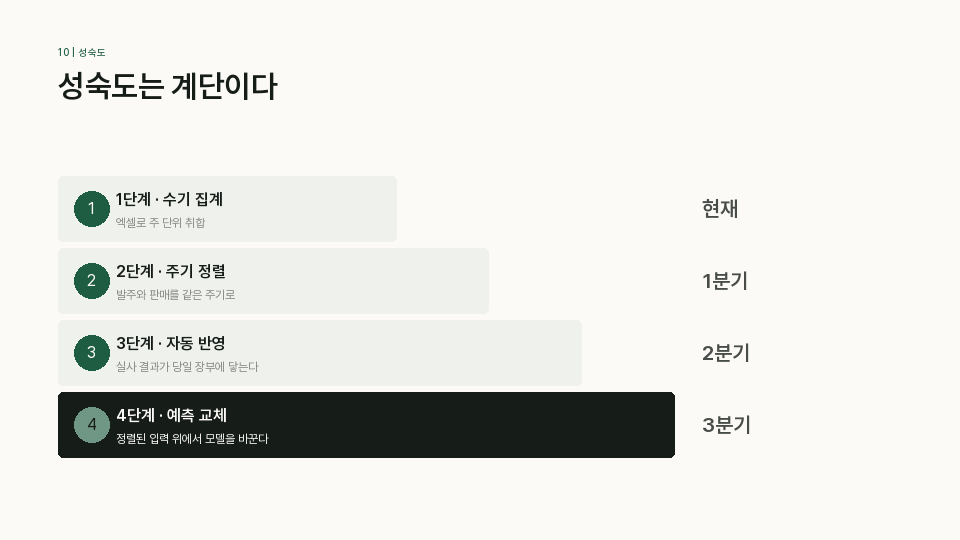
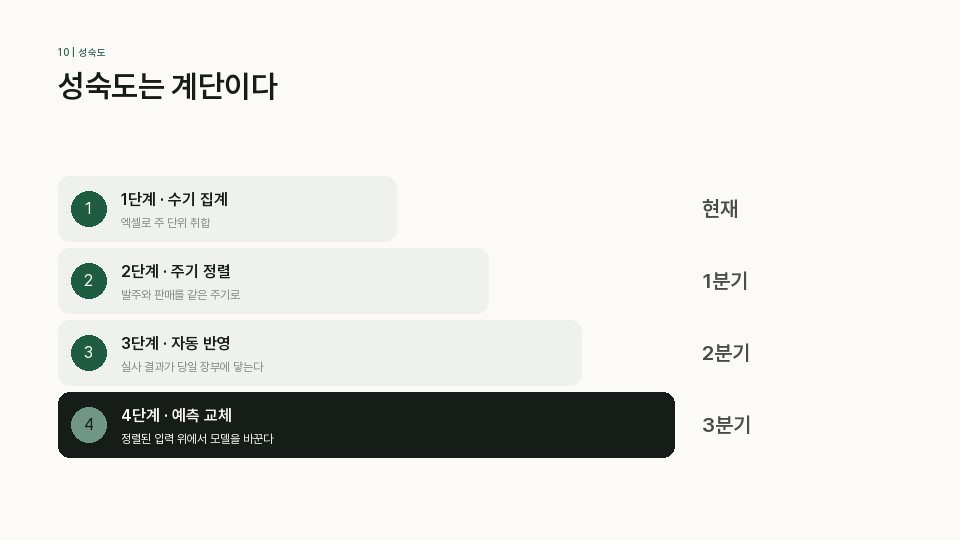
Unify corner radius to the measured single value; adopt weight/divider rules
Measured all five reference decks: the newest ones set an absolute 11.5pt corner radius on
464 shapes regardless of size (adj recomputed per shape), while the spec carried 5.0 from a
partial earlier measurement. apple_design's 'don't mix radii grammars' points the same way.

- spec: panel_radius 11.5 + chip_radius 11.5 (one scale); editorial stays square
- build/deckkit/svgpreview: drop the ad-hoc 3pt cells and the half-height pill label
- lint_deck: RADIUS fails any rounded shape off the scale
- SKILL.md: three principles with sources — one radius, no new Bold weight
  (tesla_design 400/500, apple_design 600-not-700), change the surface instead of adding a rule
- chain: single-line premise band is now line height + 29.5pt per the user's principles §4-3
- docs/README: regenerated previews, added the Q&A closing, fixed two dead image links

diff --git a/scripts/build.py b/scripts/build.py
@@ -185,8 +185,9 @@ def _closing_qa(d, s, g, sl):
         pw = block_w(label, st_s, d.spec["fonts"]["body"]) + 2 * SH["qa_label_pad_x"]
         # 알약 글자색은 대비로 고른다 — 반전 필드에서 ground 는 어둡고 accent 도 어두울 수 있다
         tc = max(("ground", "figure"), key=lambda k: contrast(d.c(k), d.c("accent")))
+        # 알약 라벨도 같은 반경이다 — 실측 108x30.2 의 반경이 11.5 로, 진짜 알약(15.1)이 아니었다
         d.chip(s, col_x(1), top, pw, ph, label, color="accent", text_color=tc,
-               style="small", radius=ph / 2)
+               style="small", radius=SH["chip_radius"])
     d.text(s, "cover", col_x(1), top + ph + gap, tw, th, title, tag="title")
     # 맺음말 한 줄은 본문 바닥선에 — 덩어리에 붙이지 않는다
     if sl.get("line"):
@@ -421,7 +422,8 @@ def chain(d, s, m, sl):
     ist = d.spec["styles"]["lead"]
     row_h = ist["size"] * ist["leading"]
     if sl.get("panel"):
-        ph = SH["panel_h"]
+        # 한 줄짜리 전제 띠는 얇게 — 줄 높이 + 여백 (원칙 §4-3). 두꺼운 띠는 글이 뜬다
+        ph = round(row_h + SH["panel_pad_h"])
         d.panel(s, col_x(1), y, span_w(12), ph, radius=SH["panel_radius"])
         d.badge(s, bl + D / 2, y + ph / 2, D, "accent")
         d.icon(s, sl.get("panel_icon", "quote"), bl + D / 2, y + ph / 2,
@@ -894,13 +896,13 @@ def cellgrid(d, s, m, sl):
         for j, hcell in enumerate(heads[:ncol]):
             gx = gx0 + sum(ws[:j]) + gp * j
             d.chip(s, gx, gy, ws[j], ch, str(hcell), color="accent_mid",
-                   text_color="figure", style="small", radius=3)
+                   text_color="figure", style="small", radius=SH["chip_radius"])
         for i, row in enumerate(rows):
             gy2 = gy + (i + 1) * (ch + gp)
             for j, cell in enumerate(row[:ncol]):
                 gx = gx0 + sum(ws[:j]) + gp * j
                 d.chip(s, gx, gy2, ws[j], ch, str(cell), color="accent_tint",
-                       text_color="figure", style="small", radius=3)
+                       text_color="figure", style="small", radius=SH["chip_radius"])
 
 
 def gallery(d, s, m, sl):

diff --git a/scripts/lint_deck.py b/scripts/lint_deck.py
@@ -150,6 +150,12 @@ def main(path):
                     fail("SHAPE", f"s{n}: '{k}' 안에 활자가 없다 — 장식 도형은 만들지 않는다")
                 if min(sh["w"], sh["h"]) < spec["plates"]["plate_min_side"] and k == "plate":
                     fail("PLATE", f"s{n}: plate 짧은 변 {min(sh['w'], sh['h'])} 미달")
+            if k in ("panel", "chip", "plate") and "radius" in sh:
+                # 반경 문법은 하나다 (사용자 최신 덱 실측 11.5 · apple_design "don't mix radii grammars").
+                # 도형마다 다른 반경을 주면 같은 화면에서 서로 다른 언어를 쓰게 된다.
+                want = spec["shapes"]["panel_radius"] if k == "panel" else spec["shapes"]["chip_radius"]
+                if abs(sh["radius"] - want) > 0.05:
+                    fail("RADIUS", f"s{n}: '{k}' 모서리 {sh['radius']} — 스케일 값은 {want} 하나다")
             if k == "connector" and min(sh["w"], sh["h"]) > 3:
                 fail("SHAPE", f"s{n}: 선 두께 {min(sh['w'], sh['h'])} — 1pt 안팎이어야 한다")
     else:

diff --git a/scripts/deckkit.py b/scripts/deckkit.py
@@ -426,7 +426,7 @@ class Deck:
                                 color=self.c(color), kind=kind, seq=self._seq))
         return sh
 
-    def panel(self, s, x, y, w, h, color="accent_tint", radius=5.0):
+    def panel(self, s, x, y, w, h, color="accent_tint", radius=11.5):
         """살짝 둥근 채움 패널. 실측 — 반경 5pt, 채움은 accent 를 ground 쪽으로 0.94 섞은 톤.
         장식이 아니라 한 덩어리를 묶는 그릇이므로 반드시 안에 활자가 들어간다."""
         sh = s.shapes.add_shape(MSO_SHAPE.ROUNDED_RECTANGLE, Pt(x), Pt(y), Pt(w), Pt(h))
@@ -443,7 +443,7 @@ class Deck:
         return sh
 
     def chip(self, s, x, y, w, h, text="", color="accent", text_color="ground",
-             style="small", radius=4.0):
+             style="small", radius=11.5):
         """번호 칩 / 눈썹 칩. 실측 47.5x23 (번호) · 147.6x30 (눈썹), accent 채움."""
         sh = s.shapes.add_shape(MSO_SHAPE.ROUNDED_RECTANGLE, Pt(x), Pt(y), Pt(w), Pt(h))
         try:

diff --git a/scripts/svgpreview.py b/scripts/svgpreview.py
@@ -190,7 +190,7 @@ def raster(man, idx, scale=1.0):
         if k in ("badge", "node", "ring", "glow"):
             dr.ellipse(box, fill="#" + z["color"])
         elif k in ("panel", "chip"):
-            dr.rounded_rectangle(box, radius=z.get("radius", 5) * scale,
+            dr.rounded_rectangle(box, radius=z.get("radius", 11.5) * scale,
                                  fill="#" + z["color"])
         else:
             dr.rectangle(box, fill="#" + z["color"])

diff --git a/SKILL.md b/SKILL.md
@@ -189,9 +189,9 @@ ppt-deck v1.0 — 밀도: {speaker|reading} / 팔레트: {name} / 예상 {N}장
 - 넘침은 눈으로 찾지 않는다 — 빌드할 때 폭을 재서 경고한다.
   넘치면 주석 칸을 줄이거나 **의도적으로 줄을 나눈다**
 
-## 디자인 원칙 — 지켜야 할 여덟 가지
+## 디자인 원칙 — 지켜야 할 열한 가지
 
-frontend-design · artifact-design · apple-design 에서 가져와 PPTX 에 맞게 옮긴 것이다.
+frontend-design · artifact-design · apple_design · tesla_design 에서 가져와 PPTX 에 맞게 옮긴 것이다.
 레이아웃을 새로 만들거나 기존 것을 고칠 때 이 목록을 먼저 본다.
 
 **1. 크림 + 테라코타를 기본값으로 쓰지 마라.** `#F4F1EA` 바탕에 테라코타 강조는
@@ -225,6 +225,21 @@ Pretendard 는 라인박스 중심(0.3555em)과 글리프 잉크 중심(0.3535em
 
 **8. 대담함은 한 곳에만 쓴다.** 한 장에 시각적 주인공은 하나다. 나머지는 조용히 둔다.
 샤넬의 조언 — 나가기 전에 거울을 보고 액세서리 하나를 뺀다.
+
+**9. 모서리 반경은 하나다.** 도형마다 다른 반경을 주면 한 화면에서 서로 다른 언어를 쓰는 셈이다.
+패널·카드·칩·라벨 전부 `panel_radius`/`chip_radius` 한 값(11.5)을 쓴다 — 사용자 최신 덱
+464개 도형이 크기와 무관하게 이 값 하나였고(adj 를 크기마다 다시 계산해 절대 반경을 유지),
+apple_design 의 "반경 문법을 섞지 마라"와 결론이 같다. `lint_deck` 의 RADIUS 가 막는다.
+알약처럼 보이려고 반경을 높이의 절반으로 올리지 않는다 — 실측도 알약이 아니었다.
+
+**10. 굵기를 늘려 강조하지 마라.** 활자 굵기는 head=SemiBold, body=Regular 둘뿐이다.
+tesla_design 은 400·500 두 단만 쓰고("타이포그래피의 드라마를 피한다"),
+apple_design 은 600 을 쓰되 700 은 거의 쓰지 않는다. 더 세게 말하고 싶으면 굵기가 아니라
+**크기·색·면**을 바꾼다. Bold 를 새로 들이지 않는다.
+
+**11. 나누고 싶으면 선이 아니라 면을 바꿔라.** apple_design 은 "색이 바뀌는 것 자체가 구분선"
+이라고 못박는다. 구획이 필요하면 `section`·`closing` 의 반전 필드나 tint 패널을 쓰고,
+가로줄을 새로 긋지 않는다. 구조선은 이미 허용된 둘(`hero_rule`·`table_rule`)로 끝이다.
 
 ## 활동 표시 (`kind:`)
 

diff --git a/README.md b/README.md
@@ -68,6 +68,10 @@ AI로 만든 PPT는 내용과 무관하게 알아봅니다. 원인은 대부분 
 <td><img src="docs/gallery.png" alt="gallery"><br><code>gallery</code> · 같은 숫자를 여러 방식으로</td>
 </tr>
 <tr>
+<td><img src="docs/closing-qa.png" alt="closing (질문 시간)"><br><code>closing</code> · 마무리 질문 장. 알약 라벨 · 큰 제목 · 맺음말 한 줄, 그림은 선택</td>
+<td><img src="docs/chain.png" alt="chain"><br><code>chain</code> · 전제 하나에서 꼬리를 무는 질문</td>
+</tr>
+<tr>
 <td colspan="2"><img src="docs/table.png" alt="table"><br><code>table</code> · 네이티브 표를 쓰지 않는다. 테마 표스타일의 줄무늬 채움과 전체 테두리가 가장 알아보기 쉬운 템플릿 지문이라 헤어라인으로 직접 그린다</td>
 </tr>
 </table>
